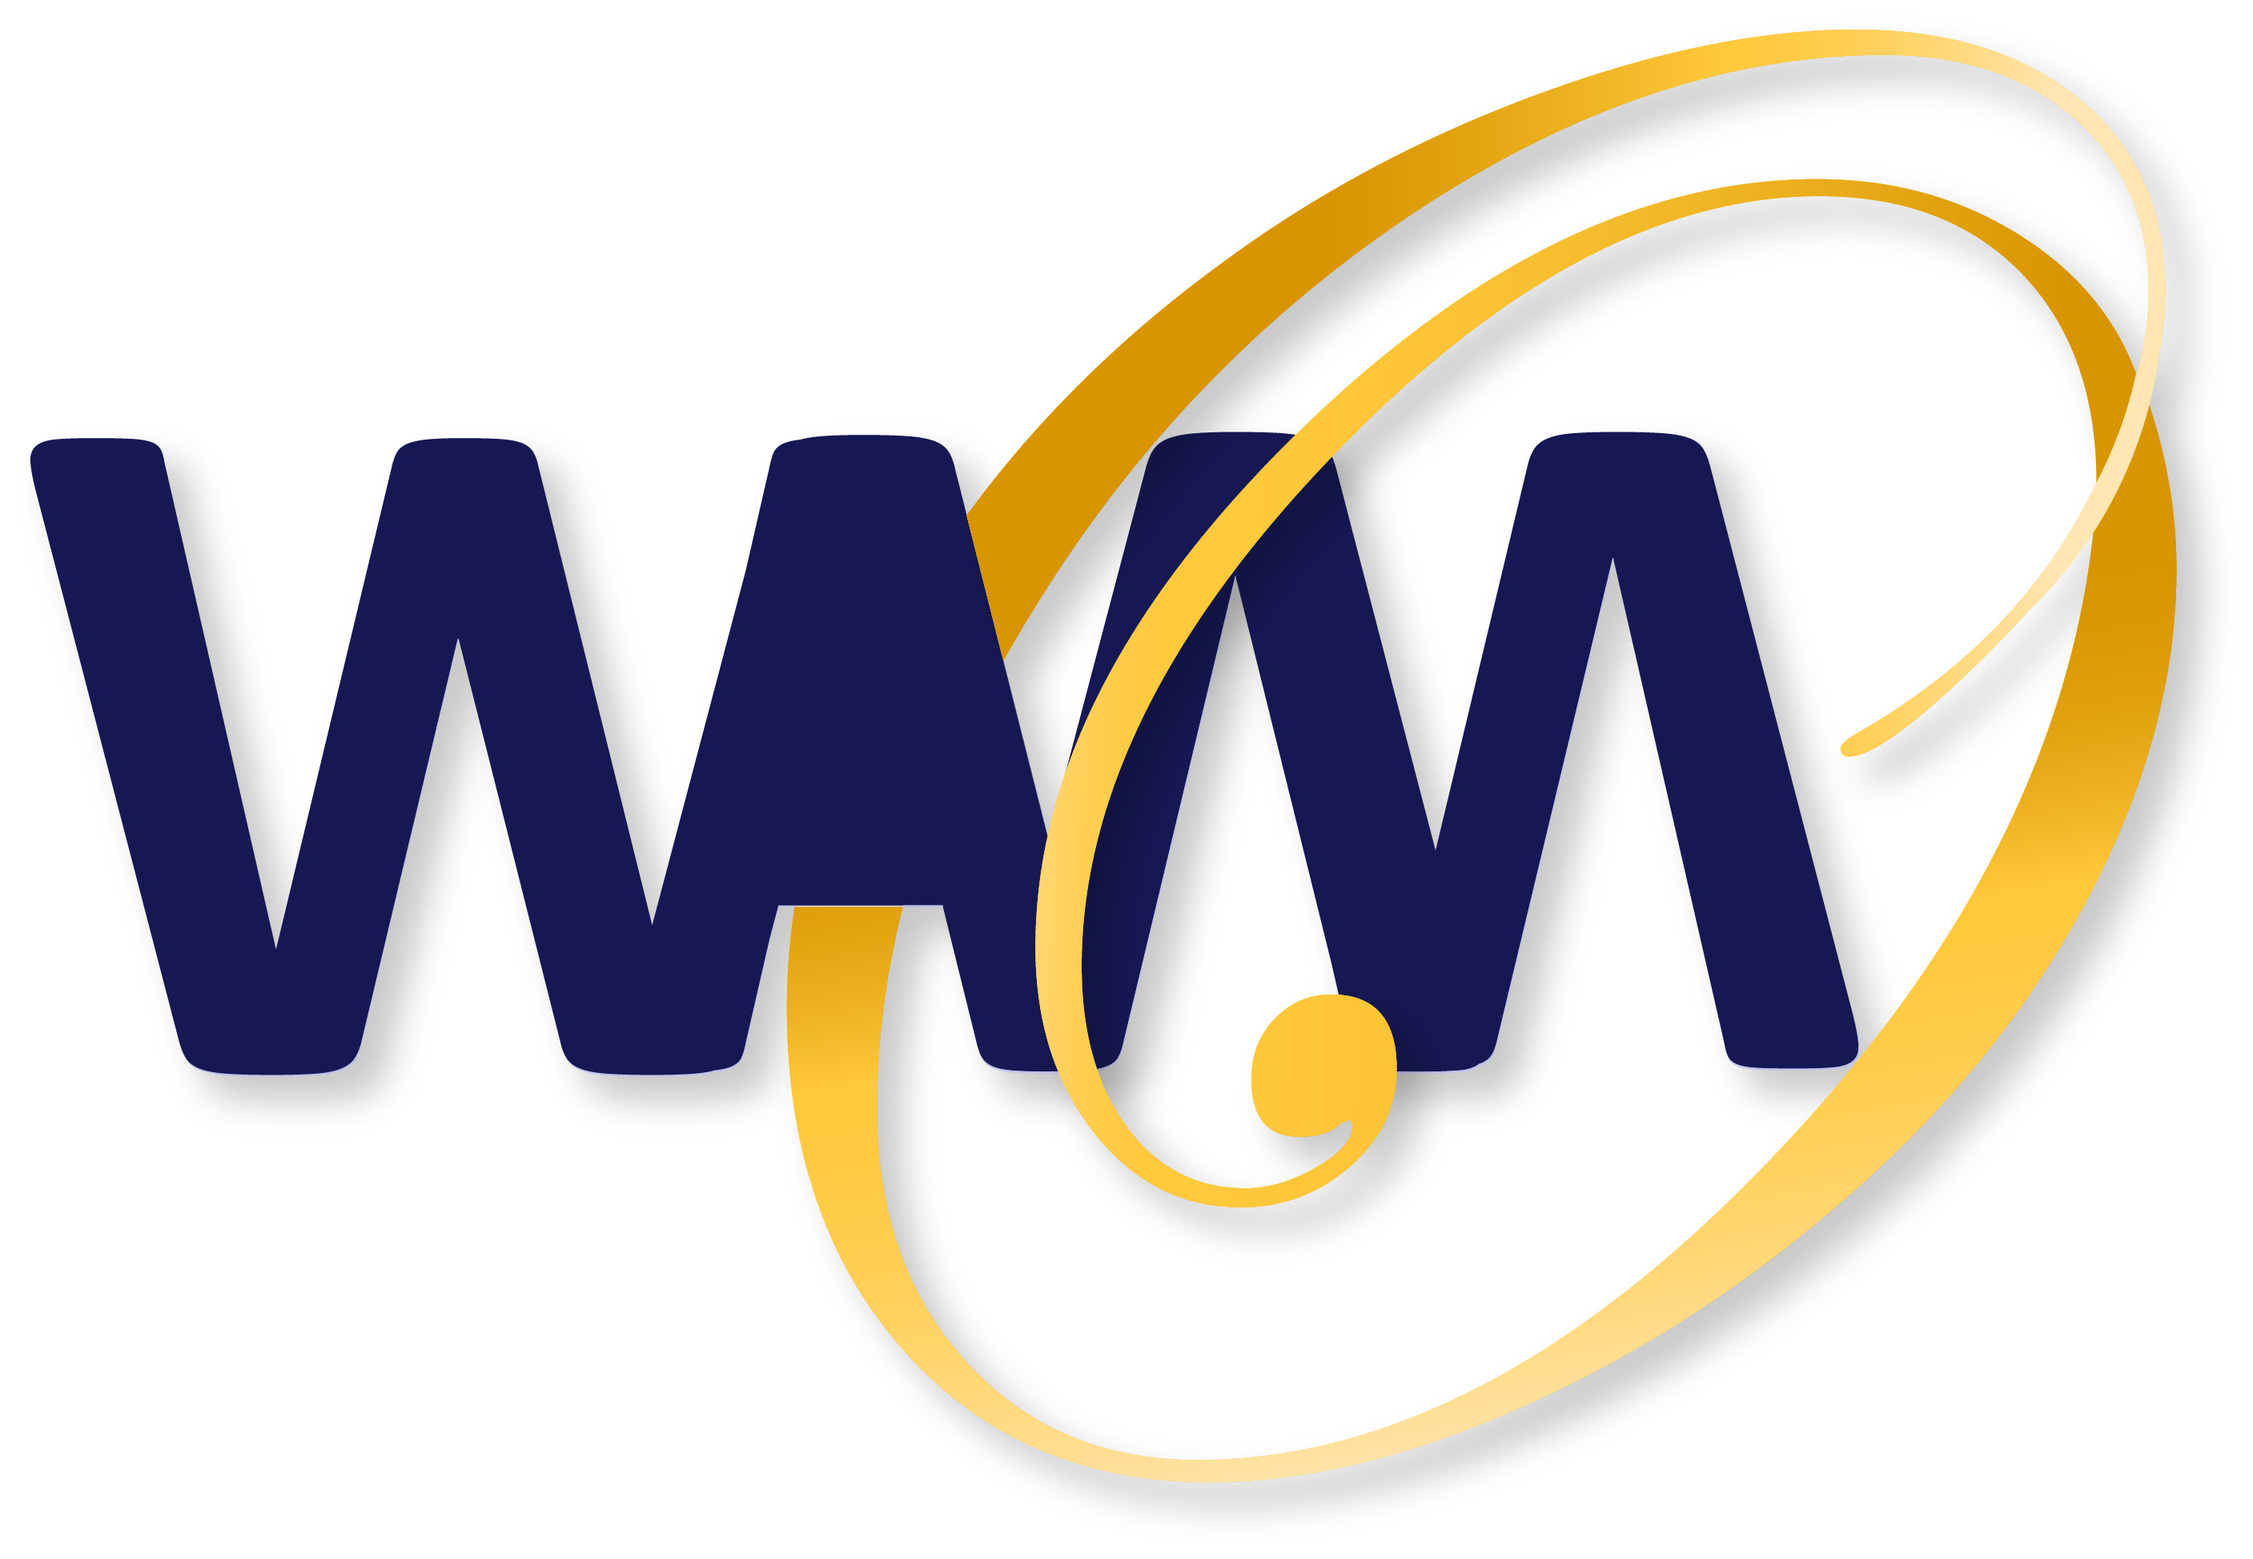
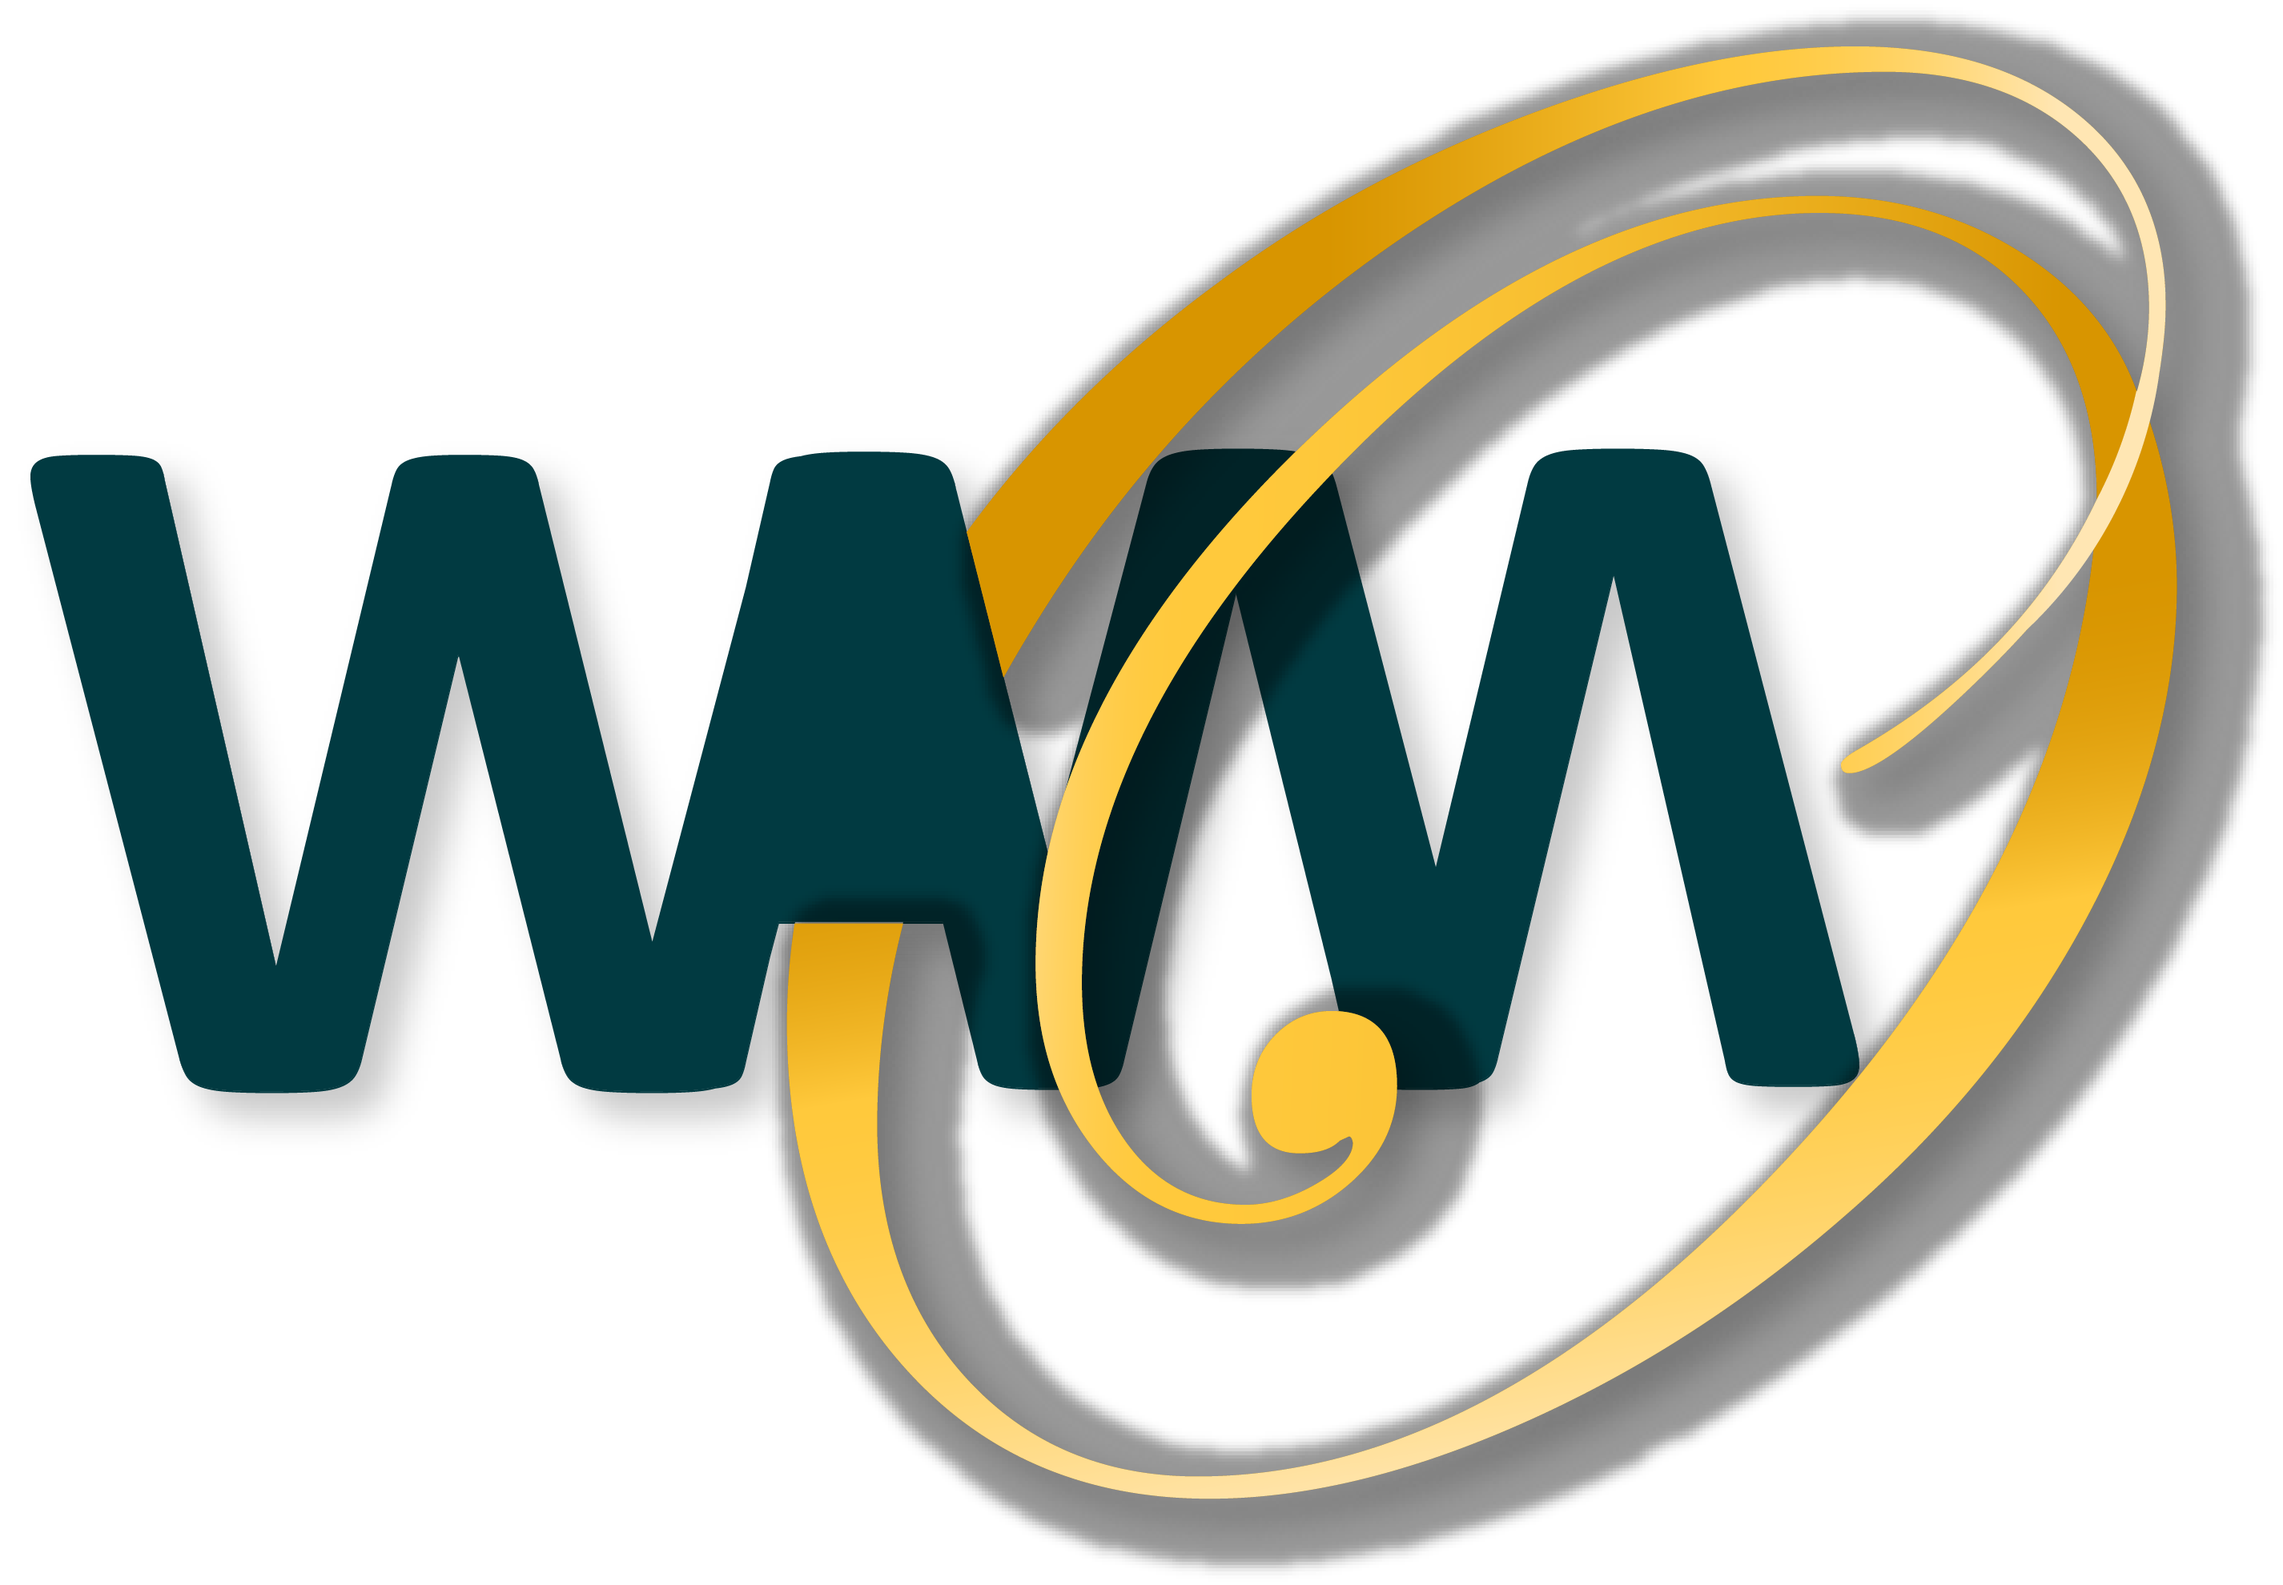
commit

diff --git a/style.css b/style.css
@@ -1,131 +1,178 @@
 * {
-    margin: 0;
-    padding: 0;
-    box-sizing: border-box;
-    font-family: 'Poppins', sans-serif;
+  margin: 0;
+  padding: 0;
+  box-sizing: border-box;
+  font-family: "Poppins", sans-serif;
 }
 
 body {
-    font-size: 25px;
-    background-image: url("bg2.jpg");
-    background-position: top;
-    background-size: cover;
-    display: flex;
-    align-items: center;
-    justify-content: center;
-    flex-direction: column;
+  font-size: 25px;
+  background-image: url("bg2.jpg");
+  background-position: top;
+  background-size: cover;
+  display: flex;
+  align-items: center;
+  justify-content: center;
+  flex-direction: column;
 }
 
 .firstpage {
-    position: absolute;
-    z-index: 1;
-    height: 120vh;
-    width: 100%;
-    background-color: rgb(255, 255, 255);
-    opacity: 0.5;
-    margin-top: -5vh;
-    align-self: center;
+  position: absolute;
+  z-index: 1;
+  height: 130vh;
+  width: 100%;
+  background-color: rgb(255, 255, 255);
+  opacity: 0.5;
+  margin-top: -5vh;
+  align-self: center;
 }
 
 .logopage {
-    position: absolute;
-    z-index: 3;
-    left: 50%;
-    top: 50%;
-    height: 200px;
-    width: 200px;
-    margin: -75px 0 0 -110px;
-    background-image: url(WAMO_Bleu.png);
-    background-position: center;
-    background-size: 70%;
-    background-repeat: no-repeat;
-    align-self: center;
+  position: absolute;
+  z-index: 3;
+  left: 50%;
+  top: 50%;
+  height: 200px;
+  width: 200px;
+  margin: -75px 0 0 -110px;
+  background-image: url(WAMO_Bleu.png);
+  background-position: center;
+  background-size: 70%;
+  background-repeat: no-repeat;
+  align-self: center;
 }
 
 .loading {
-    position: absolute;
-    z-index: 2;
-    left: 50%;
-    top: 50%;
-    height: 200px;
-    width: 200px;
-    margin: -75px 0 0 -110px;
-    border-radius: 50%;
-    border: 12px solid rgba(255, 255, 255, 0.822);
-    border-top: 12px solid crimson;
-    animation: spin 1s linear infinite;
+  position: absolute;
+  z-index: 2;
+  left: 50%;
+  top: 50%;
+  height: 200px;
+  width: 200px;
+  margin: -75px 0 0 -110px;
+  border-radius: 50%;
+  border: 12px solid rgba(255, 255, 255, 0.822);
+  border-top: 12px solid #013a41;
+  animation: spin 1s linear infinite;
 }
 
 @keyframes spin {
-    0% {
-        -webkit-transform: rotate(0deg);
-    }
-    100% {
-        -webkit-transform: rotate(360deg);
-    }
+  0% {
+    -webkit-transform: rotate(0deg);
+  }
+  100% {
+    -webkit-transform: rotate(360deg);
+  }
 }
 
 .content {
-    overflow: hidden;
-    height: max-content;
-    display: flex;
-    flex-direction: column;
-    margin-bottom: 8vh;
+  overflow: hidden;
+  height: max-content;
+  display: flex;
+  flex-direction: column;
+  margin-bottom: 8vh;
 }
 
 .loginbox {
-    background: #e0e0e0ab;
-    text-align: center;
-    border-radius: 15px ;
-    padding: 100px;
-    margin-top: 5%;
+  background: #e0e0e0ab;
+  text-align: center;
+  display: flex;
+  align-items: center;
+  justify-content: center;
+  flex-direction: column;
+  padding: 100px;
+  margin-top: 5%;
+}
+
+.ayman {
+  position: relative;
+  overflow: hidden;
+  width: 150px;
+  height: 150px;
+  background: #013a41;
+  border-radius: 50%;
+  display: flex;
+  align-items: center;
+  justify-content: center;
+  flex-direction: column;
+  overflow: hidden;
+}
+
+a {
+  width: 40px;
+  height: 40px;
+  background: #013a41;
+  border-radius: 50%;
+  border: 6px solid white;
+  overflow: hidden;
+  transform: translateY(30%);
+}
+
+b {
+  width: 80px;
+  height: 80px;
+  background: #013a41;
+  border-radius: 50%;
+  border: 6px solid white;
+  margin-top: 10;
+  transform: translateY(20%);
+}
+
+c {
+  position: absolute;
+  bottom: 50;
+  width: 150px;
+  height: 200px;
+  background: #013a41;
+  border-radius: 0 0 100rem 10rem;
+  transform: translateY(70%);
 }
 
 .input_field {
-    width: 200px;
-    height: 30px;
-    border-radius: 5px;
-    padding: 5%;
-    border: none;
+  width: 200px;
+  height: 30px;
+  border-radius: 5px;
+  padding: 5%;
+  border: none;
 }
 
 button {
-    align-content: center;
-    background-color: crimson;
-    width: 200px;
-    height: 30px;
-    border: none;
-    border-radius: 20px;
-    color: #e0e0e0;
+  align-content: center;
+  background-color: #013a41;
+  width: 200px;
+  height: 30px;
+  border: none;
+  border-radius: 20px;
+  color: #e0e0e0;
 }
 
 button:hover {
-    cursor: pointer;
-    background-color: #e0e0e0;
-    color: crimson;
-    transition: all 0.2s ease;
+  cursor: pointer;
+  background-color: #e0e0e0;
+  color: #013a41;
+  transition: all 0.2s ease;
 }
 
 .footer {
-    position: sticky;
-    background-color: #f1f1f1b0;
-    padding: 10px;
-    margin: 0;
-    text-align: center;
-    bottom: 0;
-    width: 100%;
+  position: sticky;
+  background-color: #f1f1f1b0;
+  padding: 10px;
+  margin: 0;
+  text-align: center;
+  bottom: 0;
+  width: 100%;
 }
 
 img {
-    width: 40%;
+  width: 40%;
 }
 
 @media only screen and (max-width: 720px) {
-    .loginbox {
-        margin-top: 10%;
-        padding: 70px;
-    }
-    .content {
-        margin-bottom: 15vh;
-    }
+  .loginbox {
+    margin-top: 10%;
+    padding: 70px;
+  }
+  .content {
+    margin-bottom: 15vh;
+  }
 }

diff --git a/index.html b/index.html
@@ -21,14 +21,16 @@
 
     <div class="content">
         <div class="loginbox" id="loginbox">
-            <img src="profil_icon2.png" alt="profil icon" class="profil_icon">
+            <div class="ayman">
+                <a></a>
+                <b></b>
+                <c></c>
+            </div>
             <form onsubmit="login()" action="Form.html">
-                <p>Username</p><input type="text" id="username" name="username" placeholder="type your name" required
-                    class="input_field">
-                <p>Password</p><input type="password" id="password" name="password" placeholder="type your password"
-                    required class="input_field">
+                <p>Username</p><input type="text" id="username" name="username" required class="input_field">
+                <p>Password</p><input type="password" id="password" name="password" required class="input_field">
+                <p><button type="submit" id="submit_btn" name="submit_btn">Login</button></p>
             </form>
-            <button type="submit" id="submit_btn" name="submit_btn">Login</button>
         </div>
     </div>
 
